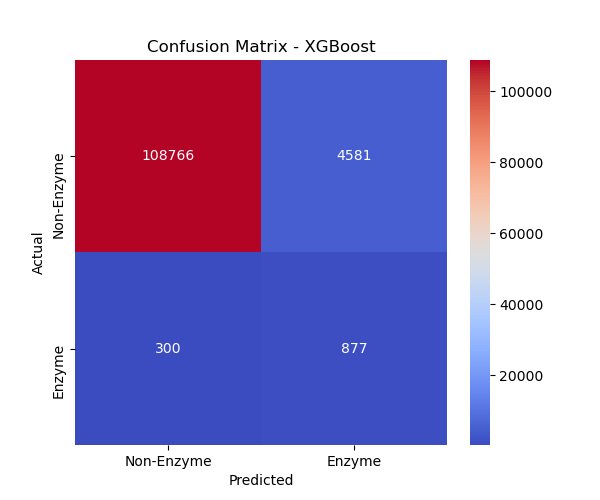
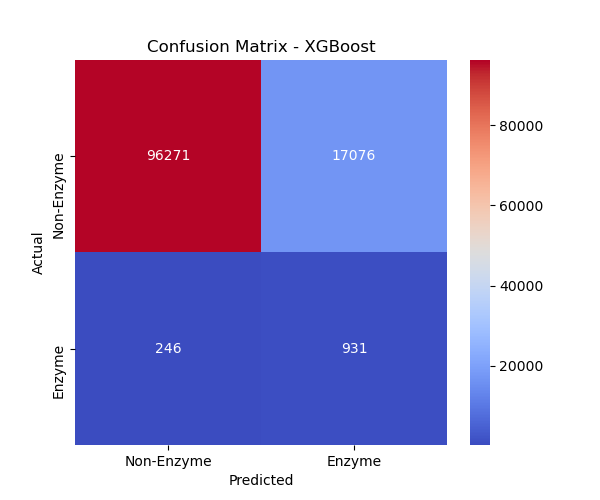
Updated XGBoost model with SMOTE tuning and feature selection

diff --git a/scripts/train_model.py b/scripts/train_model.py
@@ -4,10 +4,11 @@ import numpy as np
 import pandas as pd
 import matplotlib.pyplot as plt
 import seaborn as sns
-from xgboost import XGBClassifier
+import shap
 from sklearn.model_selection import train_test_split
 from sklearn.metrics import accuracy_score, classification_report, confusion_matrix
-from imblearn.over_sampling import SMOTE  
+from imblearn.over_sampling import SMOTE
+from xgboost import XGBClassifier
 
 # Ensure output directory exists
 output_dir = "outputs"
@@ -21,24 +22,27 @@ sys.stdout = log_file
 df = pd.read_csv("data/swissprot_features.csv")
 
 # Separate features and labels
-X = df.drop(columns=["Label"])  
-y = df["Label"]  
+X = df.drop(columns=["Label"])
+y = df["Label"]
 
-# Split into training and testing sets (80% train, 20% test)
+# Split into training and testing sets (80% train, 20% test, stratified)
 X_train, X_test, y_train, y_test = train_test_split(X, y, test_size=0.2, random_state=42, stratify=y)
 
-# **Fix Imbalance: Apply Moderate SMOTE**
-smote = SMOTE(sampling_strategy=0.3, random_state=42)  # Balance minority class to 30% of majority class
+# **Fix Imbalance: Adjust SMOTE Ratio**
+smote = SMOTE(sampling_strategy=0.25, random_state=42)  # Only oversample to 25% instead of 60%
 X_train_balanced, y_train_balanced = smote.fit_resample(X_train, y_train)
 
 print(f"Class distribution after SMOTE: {np.bincount(y_train_balanced)}")
 
 # **Train an Optimized XGBoost Classifier**
-xgb_model = XGBClassifier(n_estimators=200, 
-                          max_depth=10,  
-                          learning_rate=0.1,  
-                          scale_pos_weight=5,  
+xgb_model = XGBClassifier(n_estimators=500, 
+                          max_depth=10, 
+                          learning_rate=0.01, 
+                          scale_pos_weight=5,  # Adjusted for class balance
+                          eval_metric="logloss",
+                          use_label_encoder=False, 
                           random_state=42)
+
 xgb_model.fit(X_train_balanced, y_train_balanced)
 
 # Make predictions
@@ -49,7 +53,7 @@ accuracy_xgb = accuracy_score(y_test, y_pred_xgb)
 print(f"XGBoost Accuracy: {accuracy_xgb:.2f}")
 print("Classification Report:\n", classification_report(y_test, y_pred_xgb))
 
-# Confusion Matrix - XGBoost
+# **Confusion Matrix - XGBoost**
 plt.figure(figsize=(6,5))
 sns.heatmap(confusion_matrix(y_test, y_pred_xgb), annot=True, cmap="coolwarm", fmt="d",
             xticklabels=["Non-Enzyme", "Enzyme"], yticklabels=["Non-Enzyme", "Enzyme"])
@@ -57,26 +61,35 @@ plt.xlabel("Predicted")
 plt.ylabel("Actual")
 plt.title("Confusion Matrix - XGBoost")
 plt.savefig(os.path.join(output_dir, "confusion_matrix_xgb.png"))
-plt.close()  
+plt.close()
 
 # **Feature Importance Analysis**
 feature_importance = xgb_model.get_booster().get_score(importance_type="weight")
-important_features = sorted(feature_importance, key=feature_importance.get, reverse=True)[:10]
+important_features = sorted(feature_importance, key=feature_importance.get, reverse=True)[:10]  # Select Top 10
 
-# Reduce dataset to important features
+# Reduce dataset to selected features
 X_train_selected = X_train_balanced[important_features]
 X_test_selected = X_test[important_features]
 
-# Plot Feature Importance
+# Retrain with selected features
+xgb_model.fit(X_train_selected, y_train_balanced)
+y_pred_xgb_selected = xgb_model.predict(X_test_selected)
+
+# **SHAP Feature Importance**
+explainer = shap.Explainer(xgb_model)
+shap_values = explainer(X_test_selected)
+shap.summary_plot(shap_values, X_test_selected)
+
+# **Save Updated Feature Importance Plot**
 plt.figure(figsize=(10,6))
-plt.barh(important_features[::-1], [feature_importance[f] for f in important_features[::-1]], color=sns.color_palette("tab10"))
+plt.barh(important_features, [feature_importance[f] for f in important_features], color=plt.cm.tab10.colors)
 plt.xlabel("F score")
 plt.ylabel("Features")
 plt.title("Feature Importance - XGBoost")
-for i, v in enumerate([feature_importance[f] for f in important_features[::-1]]):
-    plt.text(v + 100, i, f"{v:.1f}", va="center")
+for i, v in enumerate([feature_importance[f] for f in important_features]):
+    plt.text(v + 100, i, f"{v:.1f}", color='black')
 plt.savefig(os.path.join(output_dir, "feature_importance_xgb.png"))
-plt.close()  
+plt.close()
 
 # Close log file
 sys.stdout.close()
